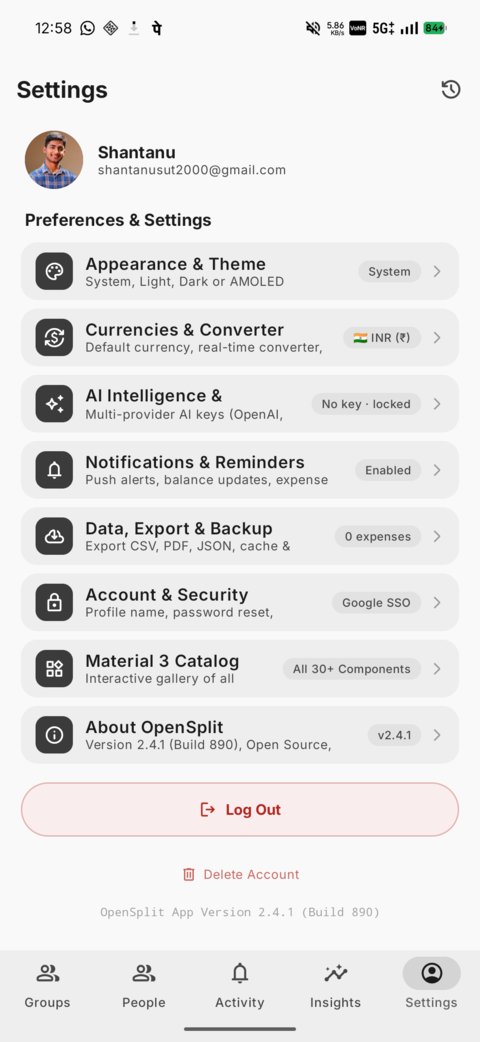
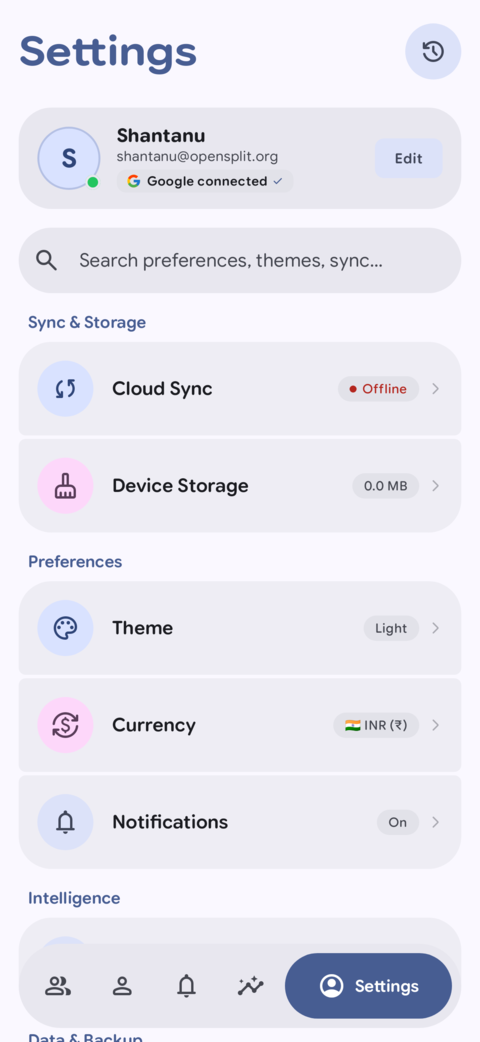
docs: update README and screenshots with new settings, AI, and bug report UI

diff --git a/app/src/test/java/com/opensplit/ui/SettingsScreenshotTest.kt b/app/src/test/java/com/opensplit/ui/SettingsScreenshotTest.kt
@@ -1,10 +1,25 @@
 package com.opensplit.ui
 
+import androidx.compose.foundation.layout.Box
+import androidx.compose.foundation.layout.Column
+import androidx.compose.foundation.layout.fillMaxSize
+import androidx.compose.material3.MaterialTheme
+import androidx.compose.material3.Surface
+import androidx.compose.ui.Alignment
+import androidx.compose.ui.Modifier
 import androidx.compose.ui.test.junit4.createComposeRule
 import androidx.compose.ui.test.onRoot
 import com.github.takahirom.roborazzi.captureRoboImage
+import com.opensplit.domain.model.User
+import com.opensplit.ui.components.FloatingNavBar
+import com.opensplit.ui.components.FloatingNavItem
+import com.opensplit.ui.screens.AccountOverviewScreen
 import com.opensplit.ui.screens.AiProvidersSubScreen
+import com.opensplit.ui.screens.AppearanceSettingsSubScreen
+import com.opensplit.ui.screens.BugReportSubScreen
+import com.opensplit.ui.theme.OpenSplitIcons
 import com.opensplit.ui.theme.OpenSplitTheme
+import com.opensplit.ui.viewmodel.AccountUiState
 import org.junit.Rule
 import org.junit.Test
 import org.junit.runner.RunWith
@@ -12,28 +27,116 @@ import org.robolectric.RobolectricTestRunner
 import org.robolectric.annotation.Config
 import org.robolectric.annotation.GraphicsMode
 
-/** Golden images for the AI settings screen in light and dark; run `./gradlew recordRoborazziDebug` to refresh. */
+/** Golden images for settings screens in light and dark; run `./gradlew recordRoborazziDebug` to refresh. */
 @RunWith(RobolectricTestRunner::class)
 @Config(sdk = [36], qualifiers = "w411dp-h891dp-xxhdpi")
 @GraphicsMode(GraphicsMode.Mode.NATIVE)
 class SettingsScreenshotTest {
     @get:Rule val compose = createComposeRule()
 
-    private fun content(dark: Boolean) {
+    private fun aiContent(dark: Boolean) {
         compose.setContent {
             OpenSplitTheme(darkTheme = dark) {
-                androidx.compose.material3.Surface(color = androidx.compose.material3.MaterialTheme.colorScheme.background) {
-                AiProvidersSubScreen(
-                    activeProvider = "anthropic",
-                    providerApiKeys = mapOf("anthropic" to "sk-ant-xxxx1234"),
-                    customEndpoint = "http://localhost:11434/v1",
-                    customModel = "llama3:latest",
-                    onSelectProvider = {}, onSaveProviderKey = { _, _ -> }, onSaveCustomSettings = { _, _ -> },
-                    aiEnabled = true, disabledFeatures = setOf("INSIGHTS"), providerModels = emptyMap(),
-                    usage = mapOf("anthropic" to 12),
-                    onToggleAi = {}, onToggleFeature = { _, _ -> }, onSetModel = { _, _ -> },
-                    onTestKey = { _, _, _, _, _ -> }, onBack = {}
-                )
+                Surface(color = MaterialTheme.colorScheme.background) {
+                    AiProvidersSubScreen(
+                        activeProvider = "anthropic",
+                        providerApiKeys = mapOf("anthropic" to "sk-ant-xxxx1234"),
+                        customEndpoint = "http://localhost:11434/v1",
+                        customModel = "llama3:latest",
+                        onSelectProvider = {}, onSaveProviderKey = { _, _ -> }, onSaveCustomSettings = { _, _ -> },
+                        aiEnabled = true, disabledFeatures = setOf("INSIGHTS"), providerModels = emptyMap(),
+                        usage = mapOf("anthropic" to 12),
+                        onToggleAi = {}, onToggleFeature = { _, _ -> }, onSetModel = { _, _ -> },
+                        onTestKey = { _, _, _, _, _ -> }, onBack = {}
+                    )
+                }
+            }
+        }
+    }
+
+    private fun accountContent(dark: Boolean) {
+        compose.setContent {
+            OpenSplitTheme(darkTheme = dark) {
+                val snackbarHostState = androidx.compose.runtime.remember { androidx.compose.material3.SnackbarHostState() }
+                val scope = androidx.compose.runtime.rememberCoroutineScope()
+                val snackbarController = androidx.compose.runtime.remember {
+                    com.opensplit.ui.components.SnackbarController(snackbarHostState, scope)
+                }
+                androidx.compose.runtime.CompositionLocalProvider(
+                    com.opensplit.ui.components.LocalSnackbarController provides snackbarController
+                ) {
+                    Surface(color = MaterialTheme.colorScheme.background, modifier = Modifier.fillMaxSize()) {
+                        Box(modifier = Modifier.fillMaxSize()) {
+                            Column(modifier = Modifier.fillMaxSize()) {
+                                AccountOverviewScreen(
+                                    data = AccountUiState(
+                                        user = User(
+                                            uid = "",
+                                            displayName = "Shantanu",
+                                            email = "shantanu@opensplit.org"
+                                        ),
+                                        groupCount = 3,
+                                        friendCount = 8,
+                                        netByCurrency = mapOf("INR" to 2450.0),
+                                        defaultCurrency = "INR",
+                                        allExpenses = emptyList(),
+                                        pendingInvites = emptyList()
+                                    ),
+                                    theme = if (dark) "dark" else "light",
+                                    dynamicColor = true,
+                                    aiProvider = "anthropic",
+                                    providerApiKeys = mapOf("anthropic" to "sk-..."),
+                                    onSelectCategory = {},
+                                    onSignOutClick = {},
+                                    onNavigateToHistory = {},
+                                    onNavigateToActivity = {}
+                                )
+                            }
+                            FloatingNavBar(
+                                items = listOf(
+                                    FloatingNavItem("Groups", OpenSplitIcons.Groups, false, {}),
+                                    FloatingNavItem("People", OpenSplitIcons.Friends, false, {}),
+                                    FloatingNavItem("Activity", OpenSplitIcons.Activity, false, {}),
+                                    FloatingNavItem("Insights", OpenSplitIcons.Insights, false, {}),
+                                    FloatingNavItem("Settings", OpenSplitIcons.Account, true, {})
+                                ),
+                                modifier = Modifier.align(Alignment.BottomCenter)
+                            )
+                        }
+                    }
+                }
+            }
+        }
+    }
+
+    private fun appearanceContent(dark: Boolean) {
+        compose.setContent {
+            OpenSplitTheme(darkTheme = dark) {
+                Surface(color = MaterialTheme.colorScheme.background, modifier = Modifier.fillMaxSize()) {
+                    AppearanceSettingsSubScreen(
+                        theme = if (dark) "dark" else "light",
+                        onThemeChange = {},
+                        onBack = {}
+                    )
+                }
+            }
+        }
+    }
+
+    private fun bugReportContent(dark: Boolean) {
+        compose.setContent {
+            OpenSplitTheme(darkTheme = dark) {
+                val snackbarHostState = androidx.compose.runtime.remember { androidx.compose.material3.SnackbarHostState() }
+                val scope = androidx.compose.runtime.rememberCoroutineScope()
+                val snackbarController = androidx.compose.runtime.remember {
+                    com.opensplit.ui.components.SnackbarController(snackbarHostState, scope)
+                }
+                androidx.compose.runtime.CompositionLocalProvider(
+                    com.opensplit.ui.components.LocalSnackbarController provides snackbarController
+                ) {
+                    Surface(color = MaterialTheme.colorScheme.background, modifier = Modifier.fillMaxSize()) {
+                        BugReportSubScreen(onBack = {})
+                    }
                 }
             }
         }
@@ -41,13 +144,31 @@ class SettingsScreenshotTest {
 
     @Test
     fun aiSettingsLight() {
-        content(dark = false)
+        aiContent(dark = false)
         compose.onRoot().captureRoboImage("src/test/screenshots/ai_settings_light.png")
     }
 
     @Test
     fun aiSettingsDark() {
-        content(dark = true)
+        aiContent(dark = true)
         compose.onRoot().captureRoboImage("src/test/screenshots/ai_settings_dark.png")
+    }
+
+    @Test
+    fun accountOverviewLight() {
+        accountContent(dark = false)
+        compose.onRoot().captureRoboImage("src/test/screenshots/settings_light.png")
+    }
+
+    @Test
+    fun appearanceSettingsLight() {
+        appearanceContent(dark = false)
+        compose.onRoot().captureRoboImage("src/test/screenshots/appearance_light.png")
+    }
+
+    @Test
+    fun bugReportLight() {
+        bugReportContent(dark = false)
+        compose.onRoot().captureRoboImage("src/test/screenshots/bug_report_light.png")
     }
 }

diff --git a/app/src/main/java/com/opensplit/ui/screens/AccountScreen.kt b/app/src/main/java/com/opensplit/ui/screens/AccountScreen.kt
@@ -156,17 +156,8 @@ fun AccountScreen(
         StateLayout(state = uiState) { data ->
             AnimatedContent(
                 targetState = selectedCategory,
-                transitionSpec = {
-                    if (targetState != null) {
-                        (slideInHorizontally(tween(300)) { width -> width / 3 } + fadeIn()).togetherWith(
-                            slideOutHorizontally(tween(300)) { width -> -width / 3 } + fadeOut()
-                        )
-                    } else {
-                        (slideInHorizontally(tween(300)) { width -> -width / 3 } + fadeIn()).togetherWith(
-                            slideOutHorizontally(tween(300)) { width -> width / 3 } + fadeOut()
-                        )
-                    }
-                },
+                // Same shared-axis motion as full-screen routes (e.g. Notifications).
+                transitionSpec = { com.opensplit.ui.theme.OpenSplitMotion.sharedAxisX(forward = targetState != null) },
                 label = "accountCategoryNavigation"
             ) { category ->
                 when (category) {

diff --git a/README.md b/README.md
@@ -36,7 +36,12 @@ fewest payments, and bring your own AI key for receipt scanning and natural-lang
   <img src="docs/screenshots/activity.png" width="19%" alt="Activity feed" />
   <img src="docs/screenshots/insights.png" width="19%" alt="Insights: spend, cash flow, budgets" />
   <img src="docs/screenshots/people.png" width="19%" alt="People tab with invite link" />
-  <img src="docs/screenshots/settings.png" width="19%" alt="Settings" />
+  <img src="docs/screenshots/settings.png" width="19%" alt="Settings overview" />
+</p>
+<p align="center">
+  <img src="docs/screenshots/ai_settings.png" width="24%" alt="AI provider configuration" />
+  <img src="docs/screenshots/appearance.png" width="24%" alt="Appearance and theme selection" />
+  <img src="docs/screenshots/bug_report.png" width="24%" alt="In-app bug report with system diagnostics" />
 </p>
 
 ---
@@ -69,6 +74,7 @@ adb install -r OpenSplit.apk
 ### Groups and people
 - Groups with emoji, letter, or image avatars. AI suggests an emoji from the name.
 - Invite by link or QR code, with expiry (1 hour to never) and optional max uses.
+- Fast **Share via** action bar to share invite links via WhatsApp, Telegram, SMS, Email, or system chooser.
 - Friend requests, direct 1:1 expenses outside any group, archived groups, pinned groups.
 - Group currency locks once the group has expenses. Balances settle **per currency**, never
   summed into a meaningless mixed total.
@@ -103,6 +109,9 @@ stored encrypted on the device and never leave it except to call the provider yo
 ### Experience
 - 100% Jetpack Compose, Material 3 Expressive, Material Symbols Rounded.
 - System / Light / Dark themes with Material You colors (Sage fallback on grey wallpapers).
+- Floating navigation bar with expressive animated pill indicators and docked quick actions.
+- In-app updates: checks GitHub Releases directly, displays release notes, and triggers the installer.
+- Built-in **Report a bug** screen with automatic device diagnostics (app version, Android release, device manufacturer/model).
 - Navigation rail and list-detail layouts on tablets. Home screen widgets.
 - Offline-first: Firestore local persistence keeps everything usable without a connection.
 
@@ -179,7 +188,7 @@ Planned, roughly in order. Open an issue to vote or claim one.
 - [ ] **Localization** beyond English.
 - [ ] **F-Droid** and Play Store listings.
 
-Done recently: Android 17 widgets, QR invites, recurring bills, multi-provider AI, tablet layouts, edit history, recently deleted, budgets.
+Done recently: In-app GitHub updates, in-app bug reporting with diagnostics, unified share bar, Android 17 widgets, QR invites, recurring bills, multi-provider AI, tablet layouts, edit history, recently deleted, budgets.
 
 ---
 
